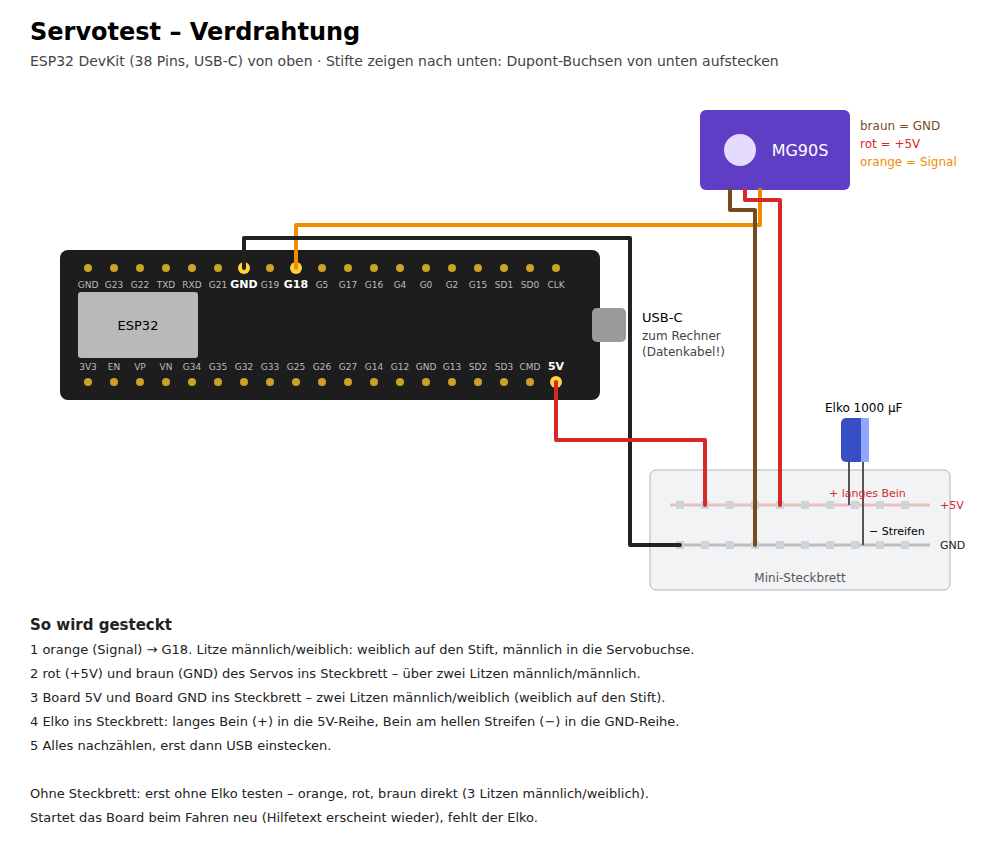
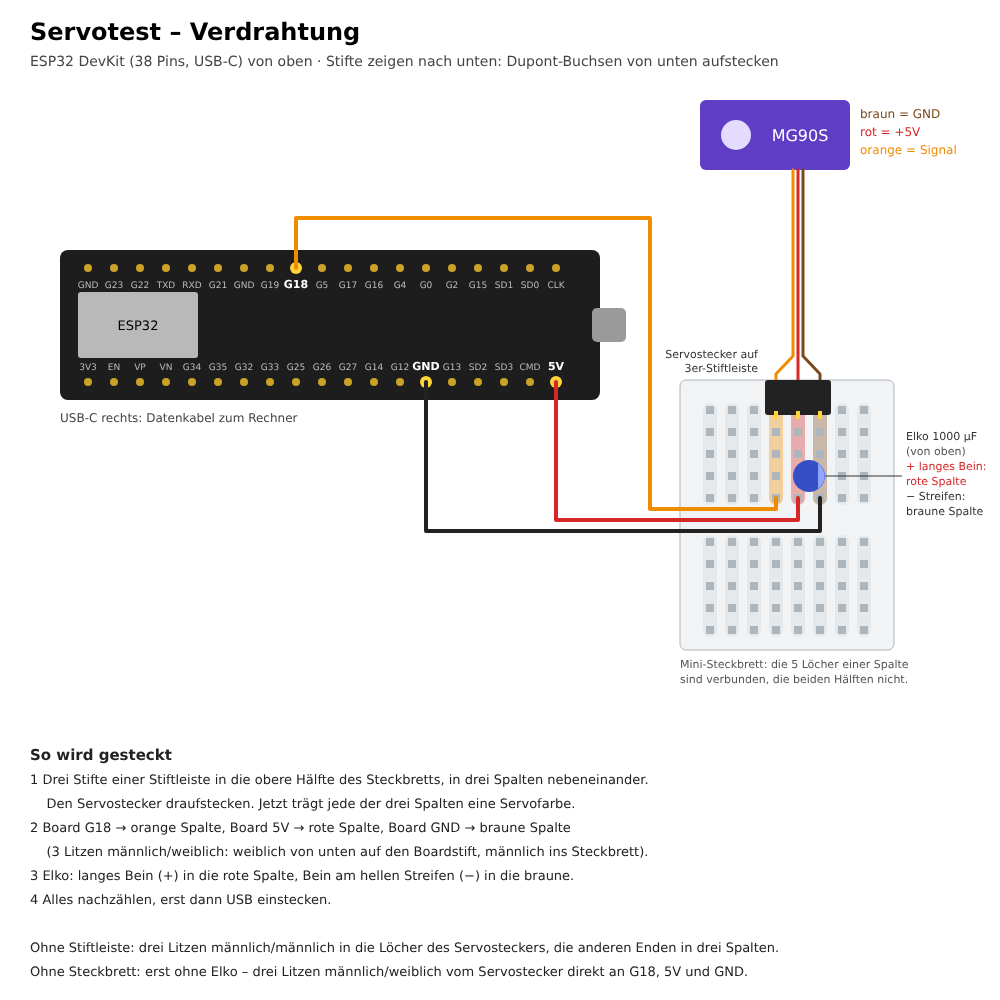
Servotest-Schaltplan: Servostecker auf Stiftleiste, Steckbrett mit Spalten
Das Servokabel endet in einem gemeinsamen dreipoligen Stecker, nicht in
drei losen Litzen. Der Stecker sitzt jetzt auf einer 3er-Stiftleiste im
Mini-Steckbrett, das Board kommt mit drei Litzen männlich/weiblich in
dieselben Spalten. Der Plan zeigt das Steckbrett, wie ein Mini-Steckbrett
wirklich verbunden ist: je 5 Löcher einer Spalte, keine Längsschienen.

Claude-Session: https://claude.ai/code/session_01NK9YSCsJqnKhJh2xkYVWn7

Changed region(s): [[0.031, 0.0, 0.992, 0.7035], [0.031, 0.7035, 0.744, 0.9788]]

diff --git a/hardware/servotest/schaltplan.py b/hardware/servotest/schaltplan.py
@@ -21,9 +21,9 @@ def pin_x(i): return P0 + i * DP
 
 s = []
 add = s.append
-add('<svg xmlns="http://www.w3.org/2000/svg" viewBox="0 0 1000 850" width="1000" height="850" '
+add('<svg xmlns="http://www.w3.org/2000/svg" viewBox="0 0 1000 1000" width="1000" height="1000" '
     'font-family="DejaVu Sans, Arial, sans-serif">')
-add('<rect width="1000" height="850" fill="#fff"/>')
+add('<rect width="1000" height="1000" fill="#fff"/>')
 add('<text x="30" y="40" font-size="24" font-weight="bold">Servotest – Verdrahtung</text>')
 add('<text x="30" y="66" font-size="14" fill="#444">ESP32 DevKit (38 Pins, USB-C) von oben · Stifte zeigen nach unten: '
     'Dupont-Buchsen von unten aufstecken</text>')
@@ -33,77 +33,88 @@ add(f'<rect x="{B_X}" y="{B_Y}" width="{B_W}" height="{B_H}" rx="8" fill="#1d1d1
 add(f'<rect x="{B_X + 18}" y="{B_Y + 42}" width="120" height="66" rx="3" fill="#b9b9b9"/>')
 add(f'<text x="{B_X + 78}" y="{B_Y + 80}" font-size="13" text-anchor="middle">ESP32</text>')
 add(f'<rect x="{B_X + B_W - 8}" y="{B_Y + 58}" width="34" height="34" rx="5" fill="#9a9a9a"/>')
-add(f'<text x="{B_X + B_W + 42}" y="{B_Y + 72}" font-size="13">USB-C</text>')
-add(f'<text x="{B_X + B_W + 42}" y="{B_Y + 90}" font-size="12" fill="#444">zum Rechner</text>')
-add(f'<text x="{B_X + B_W + 42}" y="{B_Y + 106}" font-size="12" fill="#444">(Datenkabel!)</text>')
 for reihe, y, namen, oben in ((0, Y_O, OBEN, True), (1, Y_U, UNTEN, False)):
     for i, n in enumerate(namen):
         x = pin_x(i)
-        wichtig = (oben and i in (6, 8)) or (not oben and i == 18)
+        wichtig = (oben and i == 8) or (not oben and i in (13, 18))
         add(f'<circle cx="{x}" cy="{y}" r="{6 if wichtig else 4}" fill="{"#ffd43b" if wichtig else "#c9a227"}"/>')
         ty = y + (20 if oben else -12)
         add(f'<text x="{x}" y="{ty}" font-size="{11 if wichtig else 9}" fill="{"#fff" if wichtig else "#bbb"}" '
             f'text-anchor="middle" font-weight="{"bold" if wichtig else "normal"}">{n}</text>')
 
-# Steckbrett (Mini, 2 Reihen genutzt)
-SB_X, SB_Y = 650, 470
-add(f'<rect x="{SB_X}" y="{SB_Y}" width="300" height="120" rx="6" fill="#f1f3f5" stroke="#adb5bd"/>')
-add(f'<text x="{SB_X + 150}" y="{SB_Y + 112}" font-size="12" text-anchor="middle" fill="#555">Mini-Steckbrett</text>')
-R5, RG = SB_Y + 35, SB_Y + 75                    # Reihe 5V, Reihe GND
-for y, farbe, name in ((R5, ROT, "+5V"), (RG, "#222", "GND")):
-    add(f'<line x1="{SB_X + 20}" y1="{y}" x2="{SB_X + 280}" y2="{y}" stroke="{farbe}" stroke-width="3" opacity="0.25"/>')
-    add(f'<text x="{SB_X + 290}" y="{y + 4}" font-size="11" fill="{farbe}">{name}</text>')
-    for k in range(10):
-        add(f'<rect x="{SB_X + 26 + k * 25}" y="{y - 4}" width="8" height="8" fill="#ced4da"/>')
-
-# Elko (zwischen den Reihen, stehend)
-EX = SB_X + 205
-add(f'<rect x="{EX - 14}" y="{SB_Y - 52}" width="28" height="44" rx="5" fill="#364fc7"/>')
-add(f'<rect x="{EX + 6}" y="{SB_Y - 52}" width="8" height="44" fill="#91a7ff"/>')
-add(f'<text x="{EX - 30}" y="{SB_Y - 58}" font-size="12">Elko 1000 µF</text>')
-add(f'<line x1="{EX - 6}" y1="{SB_Y - 8}" x2="{EX - 6}" y2="{R5}" stroke="{GRAU}" stroke-width="2"/>')
-add(f'<line x1="{EX + 8}" y1="{SB_Y - 8}" x2="{EX + 8}" y2="{RG}" stroke="{GRAU}" stroke-width="2"/>')
-add(f'<text x="{EX - 26}" y="{R5 - 8}" font-size="11" fill="{ROT}">+ langes Bein</text>')
-add(f'<text x="{EX + 14}" y="{RG - 10}" font-size="11">− Streifen</text>')
-
-# Servo
-SX, SY = 700, 110
-add(f'<rect x="{SX}" y="{SY}" width="150" height="80" rx="6" fill="#5f3dc4"/>')
-add(f'<circle cx="{SX + 40}" cy="{SY + 40}" r="16" fill="#e5dbff"/>')
-add(f'<text x="{SX + 100}" y="{SY + 46}" font-size="16" fill="#fff" text-anchor="middle">MG90S</text>')
-# drei Litzen aus dem Servo nach unten links
-ax = [SX + 30, SX + 45, SX + 60]
+# Mini-Steckbrett: je 5 Loecher einer Spalte sind verbunden, obere und untere
+# Haelfte getrennt. Der Servostecker sitzt auf einer 3er-Stiftleiste in drei
+# Spalten nebeneinander; jede Spalte traegt dann die Leitung ihrer Farbe.
+SB_X, SB_Y, SPALTEN, R = 680, 380, 8, 22
+def sp_x(c): return SB_X + 30 + c * R               # c = 0 ... SPALTEN-1
+def zeile_y(z): return SB_Y + 30 + z * R + (22 if z >= 5 else 0)   # a-e, Graben, f-j
+SB_H = zeile_y(9) - SB_Y + 20
+add(f'<rect x="{SB_X}" y="{SB_Y}" width="{sp_x(SPALTEN - 1) - SB_X + 30}" height="{SB_H}" rx="6" fill="#f1f3f5" stroke="#adb5bd"/>')
+C_OR, C_ROT, C_BR = 3, 4, 5                         # Spalten unter dem Servostecker
+TINT = {C_OR: ORANGE, C_ROT: ROT, C_BR: BRAUN}
+for c in range(SPALTEN):
+    for oben in (True, False):
+        z0 = 0 if oben else 5
+        farbe = TINT.get(c) if oben else None
+        add(f'<rect x="{sp_x(c) - 7}" y="{zeile_y(z0) - 7}" width="14" height="{4 * R + 14}" rx="7" '
+            f'fill="{farbe or "#dee2e6"}" opacity="{0.35 if farbe else 0.6}"/>')
+        for z in range(z0, z0 + 5):
+            add(f'<rect x="{sp_x(c) - 4}" y="{zeile_y(z) - 4}" width="8" height="8" fill="#adb5bd"/>')
+for k, t in enumerate(("Mini-Steckbrett: die 5 Löcher einer Spalte", "sind verbunden, die beiden Hälften nicht.")):
+    add(f'<text x="{SB_X}" y="{SB_Y + SB_H + 18 + k * 15}" font-size="11" fill="#555">{t}</text>')
 
 def linie(punkte, farbe, breite=4):
     d = " ".join(f"{'M' if i == 0 else 'L'}{x},{y}" for i, (x, y) in enumerate(punkte))
     add(f'<path d="{d}" fill="none" stroke="{farbe}" stroke-width="{breite}" stroke-linejoin="round" stroke-linecap="round"/>')
 
-# orange: direkt zu G18 (obere Reihe, Index 8)
-linie([(ax[2], SY + 80), (ax[2], 225), (pin_x(8), 225), (pin_x(8), Y_O)], ORANGE)
-# braun: zur GND-Reihe des Steckbretts
-linie([(ax[0], SY + 80), (ax[0], 210), (SB_X + 105, 210), (SB_X + 105, RG)], BRAUN)
-# rot: zur 5V-Reihe des Steckbretts
-linie([(ax[1], SY + 80), (ax[1], 200), (SB_X + 130, 200), (SB_X + 130, R5)], ROT)
-add(f'<text x="{SX + 160}" y="{SY + 20}" font-size="12" fill="{BRAUN}">braun = GND</text>')
-add(f'<text x="{SX + 160}" y="{SY + 38}" font-size="12" fill="{ROT}">rot = +5V</text>')
-add(f'<text x="{SX + 160}" y="{SY + 56}" font-size="12" fill="{ORANGE}">orange = Signal</text>')
+# Servo und sein Kabelbuendel bis zum Stecker
+SX, SY = 700, 100
+add(f'<rect x="{SX}" y="{SY}" width="150" height="70" rx="6" fill="#5f3dc4"/>')
+add(f'<circle cx="{SX + 36}" cy="{SY + 35}" r="15" fill="#e5dbff"/>')
+add(f'<text x="{SX + 100}" y="{SY + 41}" font-size="16" fill="#fff" text-anchor="middle">MG90S</text>')
+add(f'<text x="{SX + 160}" y="{SY + 18}" font-size="12" fill="{BRAUN}">braun = GND</text>')
+add(f'<text x="{SX + 160}" y="{SY + 36}" font-size="12" fill="{ROT}">rot = +5V</text>')
+add(f'<text x="{SX + 160}" y="{SY + 54}" font-size="12" fill="{ORANGE}">orange = Signal</text>')
+ST_O, ST_U = zeile_y(0) - 30, zeile_y(0) + 5     # Stecker oben/unten
+mitte = sp_x(C_ROT)
+for k, (c, farbe) in enumerate(((C_OR, ORANGE), (C_ROT, ROT), (C_BR, BRAUN))):
+    bx = mitte - 5 + k * 5
+    linie([(bx, SY + 70), (bx, ST_O - 24), (sp_x(c), ST_O - 6), (sp_x(c), ST_O)], farbe, 3)
+add(f'<rect x="{sp_x(C_OR) - 11}" y="{ST_O}" width="{sp_x(C_BR) - sp_x(C_OR) + 22}" height="{ST_U - ST_O}" rx="3" fill="#222"/>')
+for c in (C_OR, C_ROT, C_BR):
+    add(f'<rect x="{sp_x(c) - 2}" y="{ST_U - 4}" width="4" height="8" fill="#ffd43b"/>')
+add(f'<text x="{sp_x(C_OR) - 18}" y="{ST_O - 22}" font-size="11" fill="#333" text-anchor="end">Servostecker auf</text>')
+add(f'<text x="{sp_x(C_OR) - 18}" y="{ST_O - 8}" font-size="11" fill="#333" text-anchor="end">3er-Stiftleiste</text>')
 
-# Board -> Steckbrett: GND (obere Reihe, Index 6) und 5V (untere Reihe, Index 18)
-linie([(pin_x(6), Y_O), (pin_x(6), 238), (630, 238), (630, RG), (SB_X + 30, RG)], "#222")
-linie([(pin_x(18), Y_U), (pin_x(18), 440), (SB_X + 55, 440), (SB_X + 55, R5)], ROT)
+# Elko von oben, stehend: Beine in Zeile d der roten (+) und braunen (−) Spalte
+EX, EY = (sp_x(C_ROT) + sp_x(C_BR)) / 2, zeile_y(3)
+add(f'<circle cx="{EX}" cy="{EY}" r="16" fill="#364fc7"/>')
+add(f'<path d="M{EX + 9},{EY - 13} A16,16 0 0 1 {EX + 9},{EY + 13} Z" fill="#91a7ff"/>')
+add(f'<line x1="{EX + 16}" y1="{EY}" x2="{SB_X + 222}" y2="{EY}" stroke="#333" stroke-width="1"/>')
+for k, (t, f) in enumerate((("Elko 1000 µF", "#333"), ("(von oben)", "#555"), ("+ langes Bein:", ROT), ("rote Spalte", ROT),
+                            ("− Streifen:", "#333"), ("braune Spalte", "#333"))):
+    add(f'<text x="{SB_X + 226}" y="{EY - 36 + k * 15}" font-size="11" fill="{f}">{t}</text>')
+
+# Board -> Steckbrett, jeweils in Zeile e; die Litzen laufen im Graben
+GR = zeile_y(4) + 11
+linie([(pin_x(8), Y_O), (pin_x(8), 218), (650, 218), (650, GR), (sp_x(C_OR), GR), (sp_x(C_OR), zeile_y(4))], ORANGE)
+linie([(pin_x(18), Y_U), (pin_x(18), GR + 11), (sp_x(C_ROT), GR + 11), (sp_x(C_ROT), zeile_y(4))], ROT)
+linie([(pin_x(13), Y_U), (pin_x(13), GR + 22), (sp_x(C_BR), GR + 22), (sp_x(C_BR), zeile_y(4))], "#222")
+add(f'<text x="{B_X}" y="{B_Y + B_H + 22}" font-size="12" fill="#444">USB-C rechts: Datenkabel zum Rechner</text>')
 
 # Legende / Hinweise
 H = ["So wird gesteckt",
-     "1  orange (Signal) → G18. Litze männlich/weiblich: weiblich auf den Stift, männlich in die Servobuchse.",
-     "2  rot (+5V) und braun (GND) des Servos ins Steckbrett – über zwei Litzen männlich/männlich.",
-     "3  Board 5V und Board GND ins Steckbrett – zwei Litzen männlich/weiblich (weiblich auf den Stift).",
-     "4  Elko ins Steckbrett: langes Bein (+) in die 5V-Reihe, Bein am hellen Streifen (−) in die GND-Reihe.",
-     "5  Alles nachzählen, erst dann USB einstecken.",
+     "1  Drei Stifte einer Stiftleiste in die obere Hälfte des Steckbretts, in drei Spalten nebeneinander.",
+     "\u00a0\u00a0\u00a0\u00a0Den Servostecker draufstecken. Jetzt trägt jede der drei Spalten eine Servofarbe.",
+     "2  Board G18 → orange Spalte, Board 5V → rote Spalte, Board GND → braune Spalte",
+     "\u00a0\u00a0\u00a0\u00a0(3 Litzen männlich/weiblich: weiblich von unten auf den Boardstift, männlich ins Steckbrett).",
+     "3  Elko: langes Bein (+) in die rote Spalte, Bein am hellen Streifen (−) in die braune.",
+     "4  Alles nachzählen, erst dann USB einstecken.",
      "",
-     "Ohne Steckbrett: erst ohne Elko testen – orange, rot, braun direkt (3 Litzen männlich/weiblich).",
-     "Startet das Board beim Fahren neu (Hilfetext erscheint wieder), fehlt der Elko."]
+     "Ohne Stiftleiste: drei Litzen männlich/männlich in die Löcher des Servosteckers, die anderen Enden in drei Spalten.",
+     "Ohne Steckbrett: erst ohne Elko – drei Litzen männlich/weiblich vom Servostecker direkt an G18, 5V und GND."]
 for i, t in enumerate(H):
-    add(f'<text x="30" y="{630 + i * 24}" font-size="{15 if i == 0 else 13}" '
+    add(f'<text x="30" y="{760 + i * 24}" font-size="{15 if i == 0 else 13}" '
         f'font-weight="{"bold" if i == 0 else "normal"}" fill="#222">{t}</text>')
 add('</svg>')
 pathlib.Path(__file__).with_name("schaltplan.svg").write_text("\n".join(s), encoding="utf-8")

diff --git a/hardware/TESTANLEITUNG.md b/hardware/TESTANLEITUNG.md
@@ -17,8 +17,9 @@ durch?). Die zweite Stufe nur, wenn die erste sauber war.
 | M2-Schraube, 10–14 mm | der Stift; dazu ein **1,6-mm-Bohrer** |
 | ESP32 DevKit | mit angelöteten Stiftleisten |
 | USB-**Daten**kabel | kein reines Ladekabel – häufigster Grund, wenn der Rechner nichts erkennt |
-| Dupont-Litzen | 3× männlich/weiblich, 2× männlich/männlich |
+| Dupont-Litzen | 3× männlich/weiblich |
 | Mini-Steckbrett | das kleinste genügt – dort treffen sich 5V, GND, Servo und Elko |
+| Stiftleiste, 3 Pins | von einer Stiftleiste abgebrochen; trägt den Servostecker im Steckbrett. Ersatzweise 3 Litzen männlich/männlich |
 | Elko 1000 µF, ≥ 6,3 V | steckt im Steckbrett |
 | Rechner | mit der Arduino-IDE 2 |
 
@@ -82,26 +83,33 @@ Kontrolle: 5V ist der Pin direkt an der Buchse in der Reihe mit 3V3, CMD und
 EN; G18 liegt in der Reihe mit CLK, zwischen G5 und G19.
 
 Das Board hat **nur einen 5V-Pin**. An ihm müssen Servo und Elko hängen – zwei
-Buchsen passen aber nicht auf einen Stift. Deshalb treffen sich 5V und GND auf
-einem **Mini-Steckbrett**:
+Buchsen passen aber nicht auf einen Stift. Deshalb treffen sich alle auf einem
+**Mini-Steckbrett**. Dort sind immer die **5 Löcher einer Spalte** miteinander
+verbunden; obere und untere Hälfte sind getrennt.
 
-| Von | Nach | Litze |
-|---|---|---|
-| Servo orange (Signal) | **GPIO 18** (Beschriftung „G18", „D18" oder „18") | männlich/weiblich |
-| Servo rot (Plus) | Steckbrett, Reihe **+5V** | männlich/männlich |
-| Servo braun (Minus) | Steckbrett, Reihe **GND** | männlich/männlich |
-| Board **5V** (auf manchen Boards „VIN") | Steckbrett, Reihe +5V | männlich/weiblich |
-| Board **GND** (einer der drei) | Steckbrett, Reihe GND | männlich/weiblich |
+1. **Servostecker aufs Steckbrett:** Die drei Litzen des Servos enden in einem
+   gemeinsamen dreipoligen Stecker (Buchse). Drei Stifte von einer
+   Stiftleiste abbrechen, in die obere Hälfte stecken – drei Spalten
+   nebeneinander – und den Servostecker draufstecken. Jetzt trägt jede der
+   drei Spalten eine Servofarbe: orange, rot, braun.
+2. **Board anschließen**, je eine Litze männlich/weiblich, das weibliche Ende
+   von unten auf den Boardstift, das männliche in eine freie Öffnung der Spalte:
 
-Weibliche Enden kommen auf die Boardstifte – die zeigen nach unten, also von
-unten aufstecken. Männliche Enden in die Servobuchse und ins Steckbrett.
+   | Board | in die Spalte |
+   |---|---|
+   | **G18** (Beschriftung „G18", „D18" oder „18") | orange |
+   | **5V** (auf manchen Boards „VIN") | rot |
+   | **GND** (einer der drei) | braun |
 
-Den **Elko** ins Steckbrett: **langes Bein in die +5V-Reihe**, das Bein an der
-Seite mit dem hellen Streifen (Minus) in die GND-Reihe. Verpolt kann er
-platzen. Einmal alles nachzählen, dann erst USB anstecken.
+3. **Elko:** langes Bein (+) in die **rote** Spalte, das Bein an der Seite
+   mit dem hellen Streifen (Minus) in die **braune**. Verpolt kann er platzen.
+4. Einmal alles nachzählen, dann erst USB anstecken.
 
-**Ohne Steckbrett** geht der erste Test auch ohne Elko: orange an G18, rot an
-5V, braun an GND, je eine Litze männlich/weiblich. Für ein paar Fahrten ohne
+**Keine Stiftleiste zur Hand:** je eine Litze männlich/männlich in die drei
+Löcher des Servosteckers, die anderen Enden in drei Spalten – gleiches Ergebnis.
+
+**Ohne Steckbrett** geht der erste Test auch ohne Elko: je eine Litze
+männlich/weiblich vom Servostecker an G18 (orange), 5V (rot) und GND (braun). Für ein paar Fahrten ohne
 Last reicht das meist. Startet das Board beim Anfahren neu, fehlt der Elko.
 
 Der Plan wird aus `servotest/schaltplan.py` erzeugt (`python3 schaltplan.py`).

diff --git a/hardware/README.md b/hardware/README.md
@@ -133,7 +133,7 @@ konstruiert.
 | 4 | **Elko 1000 µF, ≥ 6,3 V** | radial, Raster 5 mm | 0,50 € |
 | 5 | **M2-Schraube, 10–14 mm** | Zylinderkopf; sie schneidet ihr Gewinde im Horn selbst, eine Mutter braucht es nicht | 0,20 € |
 | 6 | **Dupont-Litzen** | **männlich/weiblich**, 10–20 cm, dazu ein paar **männlich/männlich** – ein gemischter Satz | 2 € |
-| 6a | **Mini-Steckbrett** | das kleinste genügt: Der 5V-Pin ist nur einmal da, Servo und Elko brauchen ihn beide (siehe *Verdrahtung*). Alternativ WAGO 221-413 oder Lötkolben | 1 € |
+| 6a | **Mini-Steckbrett + Stiftleiste** | das kleinste Steckbrett genügt, von der Stiftleiste drei Pins für den Servostecker: Der 5V-Pin ist nur einmal da, Servo und Elko brauchen ihn beide (siehe *Verdrahtung*). Alternativ WAGO 221-413 oder Lötkolben | 1 € |
 | 7 | **USB-Kabel + 5-V-Netzteil, ≥ 1 A** | **Datenkabel**, kein reines Ladekabel. Steckertyp prüfen: ältere DevKits haben Micro-USB | 5 € |
 | 8 | **Kabelbinder, klein** | hält die Platine auf ihrem Mittelsteg, durch den Tunnel darin | – |
 | 9 | **PETG-Filament, ca. 180 g** | **kein PLA** – das kriecht unter Dauerlast | 4 € |
@@ -176,9 +176,10 @@ weibliches Ende auf den Boardpin, männliches Ende in die Servobuchse.
 Der Kondensator muss an **5V und GND** – und den 5V-Pin hat das Board nur
 einmal, dort sitzt schon das Servo. Zwei Buchsen passen nicht auf einen Stift.
 Für den Test treffen sich deshalb 5V, GND, Servo und Elko auf einem
-**Mini-Steckbrett** (plus zwei Litzen **männlich/männlich**, siehe
-[Schaltplan](servotest/schaltplan.png)); für die Box siehe *Verdrahtung*.
-Ein gemischter Litzensatz deckt alles ab.
+**Mini-Steckbrett**: Der Servostecker kommt auf eine dreipolige Stiftleiste
+im Steckbrett, die Boardpins über drei Litzen männlich/weiblich in dieselben
+Spalten (siehe [Schaltplan](servotest/schaltplan.png)); für die Box siehe
+*Verdrahtung*. Ein gemischter Litzensatz deckt alles ab.
 
 
 ### Welches Board genau

diff --git a/.claude/skills/tresorbox/SKILL.md b/.claude/skills/tresorbox/SKILL.md
@@ -121,7 +121,7 @@ Querschlitz), Wellenschräubchen, erst von Hand, dann `z`/`a`/`d`, Deckel.
 - Servo: braun → GND, rot → 5V/VIN, orange → **GPIO 18** (keine
   Strapping-Pins 0/2/12/15). **Elko 1000 µF** zwischen 5V und GND nah am Servo,
   sonst Brownout-Neustart beim Anfahren. Netzteil ≥ 1 A.
-- Dupont **männlich/weiblich** (Servobuchse ↔ Boardpin). **Nur ein 5V-Pin** → Servo-Plus und Elko treffen sich auf einem Mini-Steckbrett (2× m/m dazu), in der Box alternativ WAGO 221-413 oder gelötet. Plan: `servotest/schaltplan.py` → `.svg`/`.png` (PNG per Playwright aus dem SVG).
+- Dupont **männlich/weiblich** (Servobuchse ↔ Boardpin). **Nur ein 5V-Pin** → Servo-Plus und Elko treffen sich auf einem Mini-Steckbrett: Servostecker (ein 3-poliger, nicht drei lose Litzen) auf 3er-Stiftleiste, Board über 3× m/w in dieselben 5er-Spalten (Mini-Steckbrett hat keine Längsschienen!), in der Box alternativ WAGO 221-413 oder gelötet. Plan: `servotest/schaltplan.py` → `.svg`/`.png` (PNG per Playwright aus dem SVG).
 - Platine auf 21-mm-Mittelsteg (Stifte nach unten, Dupont darunter), 28 mm
   Steckerraum, 13-mm-Kabelloch in der **rechten** Wand auf Buchsenhöhe,
   Kabelbinder durch den Stegtunnel. Darüber der Zwischenboden.
